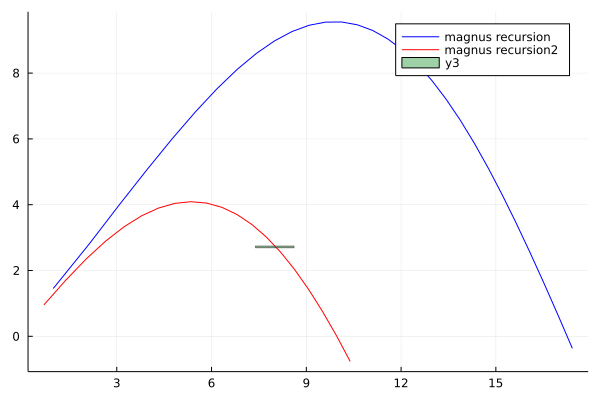
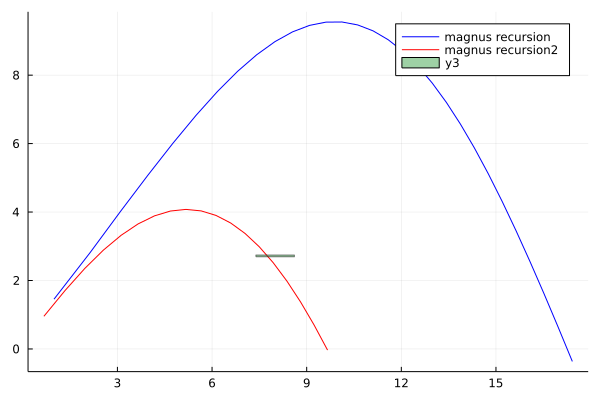
fixed distance check

diff --git a/skynet-robot-libary/src/main/java/frc/robot/lib/Meth/shooter_optimiztion.java b/skynet-robot-libary/src/main/java/frc/robot/lib/Meth/shooter_optimiztion.java
@@ -55,9 +55,11 @@ public final class shooter_optimiztion {
         return A + (B - A) * Percent;
     }
 
-    private static Double full_distance_check(Double current_Angle, Double current_RPM, Double current_Rotation_Ratio) {
-        return null;
-    }
+    // private static Double full_distance_check(Double current_Angle, Double
+    // current_RPM, Double current_Rotation_Ratio) {
+
+    // return null;
+    // }
 
     public static Vector optimize(Ball projectile, Target target, // PHYSICALS
             OptimizationType shooting_angle, OptimizationType shooting_RPM, OptimizationType spin_dierction, // INITIALS
@@ -271,6 +273,48 @@ public final class shooter_optimiztion {
             };
         };
 
+        DoubleInterface full_distance_check = new DoubleInterface() {
+            public Double run(Double angle, Double rpm, Double ratio) {
+                double TopRPM = (ratio > 0.0 ? rpm * (ratio - 1) : rpm);
+                double TopRPS = TopRPM / 60.0;
+                double BottomRPM = ratio < 0.0 ? rpm * (1 - ratio) : rpm;
+                double BottomRPS = BottomRPM / 60.0;
+
+                double muzzle_velocity = (TopRPS * TopCircumference + BottomRPS * BottomCircumference) / 2.0; // SURFACE
+                                                                                                              // SPEED
+                double angle_rads = Math.toRadians(angle); // IN RADIANS
+
+                double TopRads = 0.104719755 * TopRPM;
+                double BottompRads = 0.104719755 * BottomRPM;
+
+                Vector started_velocity = new Vector(muzzle_velocity * Math.sin(angle_rads),
+                        muzzle_velocity * Math.cos(angle_rads), 0.0); // m/s
+                Vector started_rotational_velocity = new Vector(0.0, 0.0,
+                        (TopRads * TopmDiameter / 2 - BottompRads * BottommDiameter / 2)
+                                / (2 * projectile.get_radius())); // radians
+
+                projectile.set_position(new Vector(0.0, 0.1, 0.0));
+                projectile.set_started_velocity(started_velocity);
+                projectile.set_rotational_velocity(started_rotational_velocity);
+
+                ArrayList<State> states = projectile.simulate_ball(false);
+                Double result = target.check_distance(states);
+
+                if (result != 9999.0) {
+
+                    // System.out.println(TopRPM);
+                    // System.out.println(BottomRPM);
+                    // System.out.println(" ");
+
+                    // states_to_pos(states);
+
+                    // System.out.println("\n\n" + started_velocity);
+                    // System.out.println(started_rotational_velocity);
+                }
+                return result;
+            };
+        };
+
         if (max_hub_distance > 0)
             Current_Rotation_Ratio = Math.min(target.x_pos / max_hub_distance, 1.0) * -1.0;
 
@@ -302,6 +346,11 @@ public final class shooter_optimiztion {
 
                 BestTopRPM = (Current_Rotation_Ratio > 0.0 ? BestRPM * (Current_Rotation_Ratio - 1) : BestRPM);
                 BestBottomRPM = Current_Rotation_Ratio < 0.0 ? BestRPM * (1 - Current_Rotation_Ratio) : BestRPM;
+            } else {
+                // System.out.println(90 - Current_Angle + " " + Current_RPM);
+                // System.out.println(full_distance_check.run(Current_Angle, Current_RPM,
+                // Current_Rotation_Ratio));
+                // System.out.println();
             }
 
             Current_Angle += Angle_Increment;

diff --git a/skynet-robot-libary/src/main/java/frc/robot/lib/Meth/Target.java b/skynet-robot-libary/src/main/java/frc/robot/lib/Meth/Target.java
@@ -144,7 +144,6 @@ public class Target {
                 if (true) { // Z AXIS TBD
                     if (angle_deg >= minimum_entry_angle && angle_deg <= maximum_entry_angle) {
                         if (velocity >= minimum_entry_velocity && velocity <= maximum_entry_velocity) {
-                            System.out.println(angle_deg);
                             return true;
                         }
                     } else {
@@ -157,31 +156,32 @@ public class Target {
     }
 
     public Double check_distance(ArrayList<State> states) {
-        if (states.size() < 5)
-            return 9999.0;
-        Segment segment = new Segment(0.0, 0.0, 0.0, 0.0); // LX LY CX CY
-        double x_max = this.x_pos + (x_size / 2.0);
-        double x_min = this.x_pos - (x_size / 2.0);
-        double y_max = this.y_pos + (y_size / 2.0);
-        double y_min = this.y_pos - (y_size / 2.0);
+        if (states.size() > 5) {
 
-        for (int index = 0; index < states.size(); index++) {
-            segment.LX = segment.CX;
-            segment.LY = segment.CY;
-            segment.CX = states.get(index).position.getComponent(0);
-            segment.CY = states.get(index).position.getComponent(1);
+            Segment segment = new Segment(0.0, 0.0, 0.0, 0.0); // LX LY CX CY
+            double x_max = this.x_pos + (x_size / 2.0);
+            double x_min = this.x_pos - (x_size / 2.0);
+            double y_max = this.y_pos + (y_size / 2.0);
+            double y_min = this.y_pos - (y_size / 2.0);
 
-            // System.out.println(segment.CY);
+            for (int index = 0; index < states.size(); index++) {
+                segment.LX = segment.CX;
+                segment.LY = segment.CY;
+                segment.CX = states.get(index).position.getComponent(0);
+                segment.CY = states.get(index).position.getComponent(1);
 
-            double angle_deg = -(Math.toDegrees(Math.atan2(segment.CY - segment.LY, segment.CX - segment.LX)));
+                // System.out.println(segment.CY);
 
-            double velocity = new Vector(segment.CX - segment.LX, segment.CY - segment.LY).getMagnitude();
+                double angle_deg = -(Math.toDegrees(Math.atan2(segment.CY - segment.LY, segment.CX - segment.LX)));
 
-            if (LineLine(new Vector(segment.LX, segment.LY), new Vector(segment.CX, segment.CY),
-                    new Vector(0.0, y_max), new Vector(200.0, y_max))) {
+                double velocity = new Vector(segment.CX - segment.LX, segment.CY - segment.LY).getMagnitude();
+
                 if (true) { // Z AXIS TBD
-                    return Math.abs(((segment.LX + segment.CX) / 2.0) - this.x_pos)
-                            * ((((segment.LX + segment.CX) / 2.0) > this.x_pos) ? 1.0 : -1.0);
+                    if (angle_deg >= minimum_entry_angle && angle_deg <= maximum_entry_angle) {
+                        if (velocity >= minimum_entry_velocity && velocity <= maximum_entry_velocity) {
+                            return ((segment.LX + segment.CX) / 2.0) - this.x_pos;
+                        }
+                    }
                 }
             }
         }
